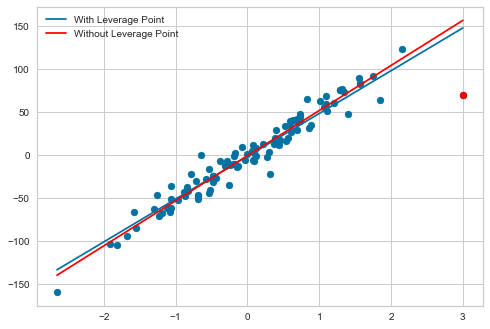
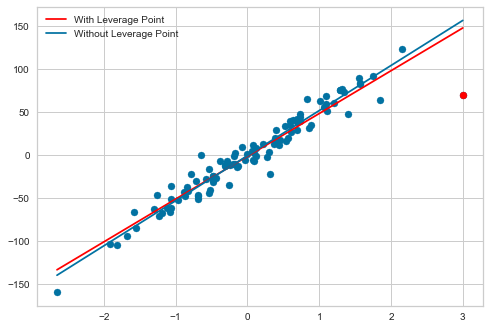
Update leverage

diff --git a/_projects/2020-07-28-Leverage_Points.md b/_projects/2020-07-28-Leverage_Points.md
@@ -57,6 +57,8 @@ visualizer = CooksDistance()
 visualizer.fit(df['X'].values.reshape(-1, 1), df['Y'])
 ```
 
+    /Users/jeffreyherman/opt/anaconda3/lib/python3.7/site-packages/sklearn/utils/deprecation.py:143: FutureWarning: The sklearn.metrics.classification module is  deprecated in version 0.22 and will be removed in version 0.24. The corresponding classes / functions should instead be imported from sklearn.metrics. Anything that cannot be imported from sklearn.metrics is now part of the private API.
+      warnings.warn(message, FutureWarning)
     /Users/jeffreyherman/opt/anaconda3/lib/python3.7/site-packages/sklearn/base.py:213: FutureWarning: From version 0.24, get_params will raise an AttributeError if a parameter cannot be retrieved as an instance attribute. Previously it would return None.
       FutureWarning)
     /Users/jeffreyherman/opt/anaconda3/lib/python3.7/site-packages/yellowbrick/regressor/influence.py:183: UserWarning: In Matplotlib 3.3 individual lines on a stem plot will be added as a LineCollection instead of individual lines. This significantly improves the performance of a stem plot. To remove this warning and switch to the new behaviour, set the "use_line_collection" keyword argument to True.
@@ -66,7 +68,7 @@ visualizer.fit(df['X'].values.reshape(-1, 1), df['Y'])
 
 
 
-    CooksDistance(ax=<matplotlib.axes._subplots.AxesSubplot object at 0x1c317032d0>)
+    CooksDistance(ax=<matplotlib.axes._subplots.AxesSubplot object at 0x1c1f78ba50>)
 
 
 
@@ -161,6 +163,10 @@ model_1 = sm.OLS(Y, X).fit()
 model_1.summary()
 ```
 
+    /Users/jeffreyherman/opt/anaconda3/lib/python3.7/site-packages/statsmodels/tools/_testing.py:19: FutureWarning: pandas.util.testing is deprecated. Use the functions in the public API at pandas.testing instead.
+      import pandas.util.testing as tm
+
+
 
 
 
@@ -176,10 +182,10 @@ model_1.summary()
   <th>Method:</th>             <td>Least Squares</td>  <th>  F-statistic:       </th> <td>   1246.</td>
 </tr>
 <tr>
-  <th>Date:</th>             <td>Sun, 26 Jul 2020</td> <th>  Prob (F-statistic):</th> <td>6.87e-58</td>
+  <th>Date:</th>             <td>Tue, 28 Jul 2020</td> <th>  Prob (F-statistic):</th> <td>6.87e-58</td>
 </tr>
 <tr>
-  <th>Time:</th>                 <td>18:25:28</td>     <th>  Log-Likelihood:    </th> <td> -407.59</td>
+  <th>Time:</th>                 <td>14:56:18</td>     <th>  Log-Likelihood:    </th> <td> -407.59</td>
 </tr>
 <tr>
   <th>No. Observations:</th>      <td>   101</td>      <th>  AIC:               </th> <td>   819.2</td>
@@ -224,13 +230,15 @@ model_1.summary()
 
 
 ```python
-mean_squared_error(df['Y'], model.predict(X))
+from sklearn.metrics import mean_squared_error
+
+mean_squared_error(df['Y'], model_1.predict(X))
 ```
 
 
 
 
-    194.91395168609014
+    187.3842053021652
 
 
 
@@ -261,10 +269,10 @@ model_2.summary()
   <th>Method:</th>             <td>Least Squares</td>  <th>  F-statistic:       </th> <td>   1933.</td>
 </tr>
 <tr>
-  <th>Date:</th>             <td>Sun, 26 Jul 2020</td> <th>  Prob (F-statistic):</th> <td>2.59e-66</td>
+  <th>Date:</th>             <td>Tue, 28 Jul 2020</td> <th>  Prob (F-statistic):</th> <td>2.59e-66</td>
 </tr>
 <tr>
-  <th>Time:</th>                 <td>18:25:36</td>     <th>  Log-Likelihood:    </th> <td> -381.98</td>
+  <th>Time:</th>                 <td>14:57:06</td>     <th>  Log-Likelihood:    </th> <td> -381.98</td>
 </tr>
 <tr>
   <th>No. Observations:</th>      <td>   100</td>      <th>  AIC:               </th> <td>   768.0</td>
@@ -309,7 +317,7 @@ model_2.summary()
 
 
 ```python
-mean_squared_error(df.drop(100)['Y'], model.predict(X))
+mean_squared_error(df.drop(100)['Y'], model_2.predict(X))
 ```
 
 
@@ -326,15 +334,15 @@ We see that the first model has a R^2 of 0.926 while the second model has a R^2 
 Xnew = np.array([[1, df['X'].min()], [1, df['X'].max()]])
 plt.scatter(df['X'], df['Y'])
 plt.scatter([3], [70], color = 'red')
-plt.plot([df['X'].min(), df['X'].max()], model_1.predict(Xnew), label = 'With Leverage Point')
-plt.plot([df['X'].min(), df['X'].max()], model_2.predict(Xnew), color = 'red', label = 'Without Leverage Point')
+plt.plot([df['X'].min(), df['X'].max()], model_1.predict(Xnew), label = 'With Leverage Point', color = 'red')
+plt.plot([df['X'].min(), df['X'].max()], model_2.predict(Xnew), label = 'Without Leverage Point')
 plt.legend()
 ```
 
 
 
 
-    <matplotlib.legend.Legend at 0x1c330f3910>
+    <matplotlib.legend.Legend at 0x1c2d5a9610>
 
 
 
